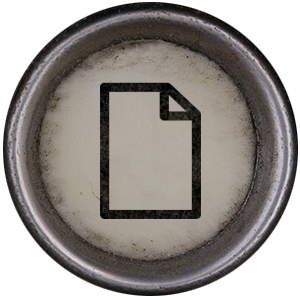
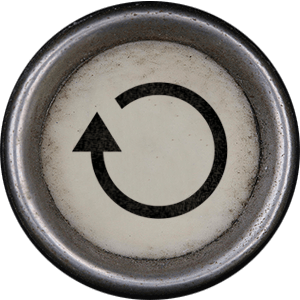
update buttons to typewriter key images; compress typewriter key images

diff --git a/public/styles/app.min.css b/public/styles/app.min.css
@@ -1,1 +1,1 @@
-body{font-family:'Cutive Mono',monospace;padding:5%}@media (min-width:768px){body{padding:11.11%}}.composition,.header{margin-bottom:50px}.header-text{font-weight:700;font-size:32px;border-bottom:1px solid #000}.cursor{font-weight:lighter;color:#a9a9a9}#initial-input{font-size:18px;position:absolute;left:calc(50% - 120px);width:215px;opacity:0;caret-color:transparent}.composition-container{text-align:center;font-size:18px}.composition-container #composition-field,.composition-container .cursor{pointer-events:none}.composition-container .cursor{position:relative;left:-15px;line-height:18px;font-size:24px;-webkit-animation:blink 1.1s step-end infinite;animation:blink 1.1s step-end infinite}.suggestions{display:flex;justify-content:space-between;max-width:750px;margin:0 auto}.suggestion-field{width:33.33%;max-width:250px;text-align:center;line-height:20px;height:20px;font-size:14px;color:gray;cursor:pointer}.suggestion-field:not(:empty){border-right:1px solid gray}.suggestion-field:not(:empty):first-child{border-left:1px solid gray}.buttons{display:flex;justify-content:center}.button{height:35px;width:35px;padding:5px;margin-right:10px;background-color:#d4cec7;border:none;border-radius:50%;box-shadow:0 0 2px 1px #3d372f inset,0 0 3px 0 #a09fa4;color:#121317;opacity:.7;cursor:pointer}.button.disabled{opacity:.3}.button::after{content:'';display:block;height:20px;width:23px;background-size:contain;background-position:center;background-repeat:no-repeat;position:relative}.button.back::after{background-image:url(../assets/backspace.png)}.button.refresh::after{background-image:url(../assets/refresh.png)}.button.restart::after{background-image:url(../assets/restart.png);left:1px}@-webkit-keyframes blink{0%{opacity:1}50%{opacity:0}100%{opacity:1}}@keyframes blink{0%{opacity:1}50%{opacity:0}100%{opacity:1}}
+body{font-family:'Cutive Mono',monospace;padding:5%}@media (min-width:768px){body{padding:11.11%}}.composition,.header{margin-bottom:50px}.header-text{font-weight:700;font-size:32px;border-bottom:1px solid #000}.cursor{font-weight:lighter;color:#a9a9a9}#initial-input{font-size:18px;position:absolute;left:calc(50% - 120px);width:215px;opacity:0;caret-color:transparent}.composition-container{text-align:center;font-size:18px}.composition-container #composition-field,.composition-container .cursor{pointer-events:none}.composition-container .cursor{position:relative;left:-15px;line-height:18px;font-size:24px;-webkit-animation:blink 1.1s step-end infinite;animation:blink 1.1s step-end infinite}.suggestions{display:flex;justify-content:space-between;max-width:750px;margin:0 auto}.suggestion-field{width:33.33%;max-width:250px;text-align:center;line-height:20px;height:20px;font-size:14px;color:gray;cursor:pointer}.suggestion-field:not(:empty){border-right:1px solid gray}.suggestion-field:not(:empty):first-child{border-left:1px solid gray}.buttons{display:flex;justify-content:center}.button{height:35px;width:35px;margin-right:10px;border-radius:50%;border:none;background-size:110%;background-position:center;background-repeat:no-repeat;cursor:pointer}.button.restart{background-image:url(../assets/restart-key.png);left:1px}.button.refresh{background-image:url(../assets/refresh-key.png)}.button.back{background-image:url(../assets/backspace-key.png)}.button.disabled{opacity:.5}@-webkit-keyframes blink{0%{opacity:1}50%{opacity:0}100%{opacity:1}}@keyframes blink{0%{opacity:1}50%{opacity:0}100%{opacity:1}}

diff --git a/styles/app.scss b/styles/app.scss
@@ -85,42 +85,29 @@ body {
 .button {
     height: 35px;
     width: 35px;
-    padding: 5px;
     margin-right: 10px;
-    background-color: #d4cec7;
-    border: none;
     border-radius: 50%;
-    box-shadow: 0 0 2px 1px #3d372f inset, 0 0 3px 0 #a09fa4;
-    color: #121317;
-    opacity: 0.7;
+    border: none;
+    background-size: 110%;
+    background-position: center;
+    background-repeat: no-repeat;
     cursor: pointer;
 
-    &.disabled {
-        opacity: .3;
-    }
-
-    &::after {
-        content: '';
-        display: block;
-        height: 20px;
-        width: 23px;
-        background-size: contain;
-        background-position: center;
-        background-repeat: no-repeat;
-        position: relative;
-    }
-
-    &.back::after {
-        background-image: url(../assets/backspace.png);
-    }
-
-    &.refresh::after {
-        background-image: url(../assets/refresh.png);
-    }
-
-    &.restart::after {
-        background-image: url(../assets/restart.png);
+    &.restart {
+        background-image: url(../assets/restart-key.png);
         left: 1px;
+    }
+
+    &.refresh {
+        background-image: url(../assets/refresh-key.png);
+    }
+
+    &.back {
+        background-image: url(../assets/backspace-key.png);
+    }
+
+    &.disabled {
+        opacity: .5;
     }
 }
 

diff --git a/public/styles/app.css b/public/styles/app.css
@@ -70,33 +70,22 @@ body {
 .button {
   height: 35px;
   width: 35px;
-  padding: 5px;
   margin-right: 10px;
-  background-color: #d4cec7;
-  border: none;
   border-radius: 50%;
-  box-shadow: 0 0 2px 1px #3d372f inset, 0 0 3px 0 #a09fa4;
-  color: #121317;
-  opacity: 0.7;
+  border: none;
+  background-size: 110%;
+  background-position: center;
+  background-repeat: no-repeat;
   cursor: pointer; }
-  .button.disabled {
-    opacity: .3; }
-  .button::after {
-    content: '';
-    display: block;
-    height: 20px;
-    width: 23px;
-    background-size: contain;
-    background-position: center;
-    background-repeat: no-repeat;
-    position: relative; }
-  .button.back::after {
-    background-image: url(../assets/backspace.png); }
-  .button.refresh::after {
-    background-image: url(../assets/refresh.png); }
-  .button.restart::after {
-    background-image: url(../assets/restart.png);
+  .button.restart {
+    background-image: url(../assets/restart-key.png);
     left: 1px; }
+  .button.refresh {
+    background-image: url(../assets/refresh-key.png); }
+  .button.back {
+    background-image: url(../assets/backspace-key.png); }
+  .button.disabled {
+    opacity: .5; }
 
 /* Animation */
 @-webkit-keyframes blink {

diff --git a/index.html b/index.html
@@ -28,9 +28,9 @@
     </section>
     
     <section class="buttons">
-        <button class="button back disabled"></button>
-        <button class="button refresh disabled"></button>
         <button class="button restart disabled"></button>
+        <button class="button refresh disabled"></button>
+        <button class="button back disabled"></button>
     </section>
     
     <!-- <button id="generate-btn">Compose</button> -->
